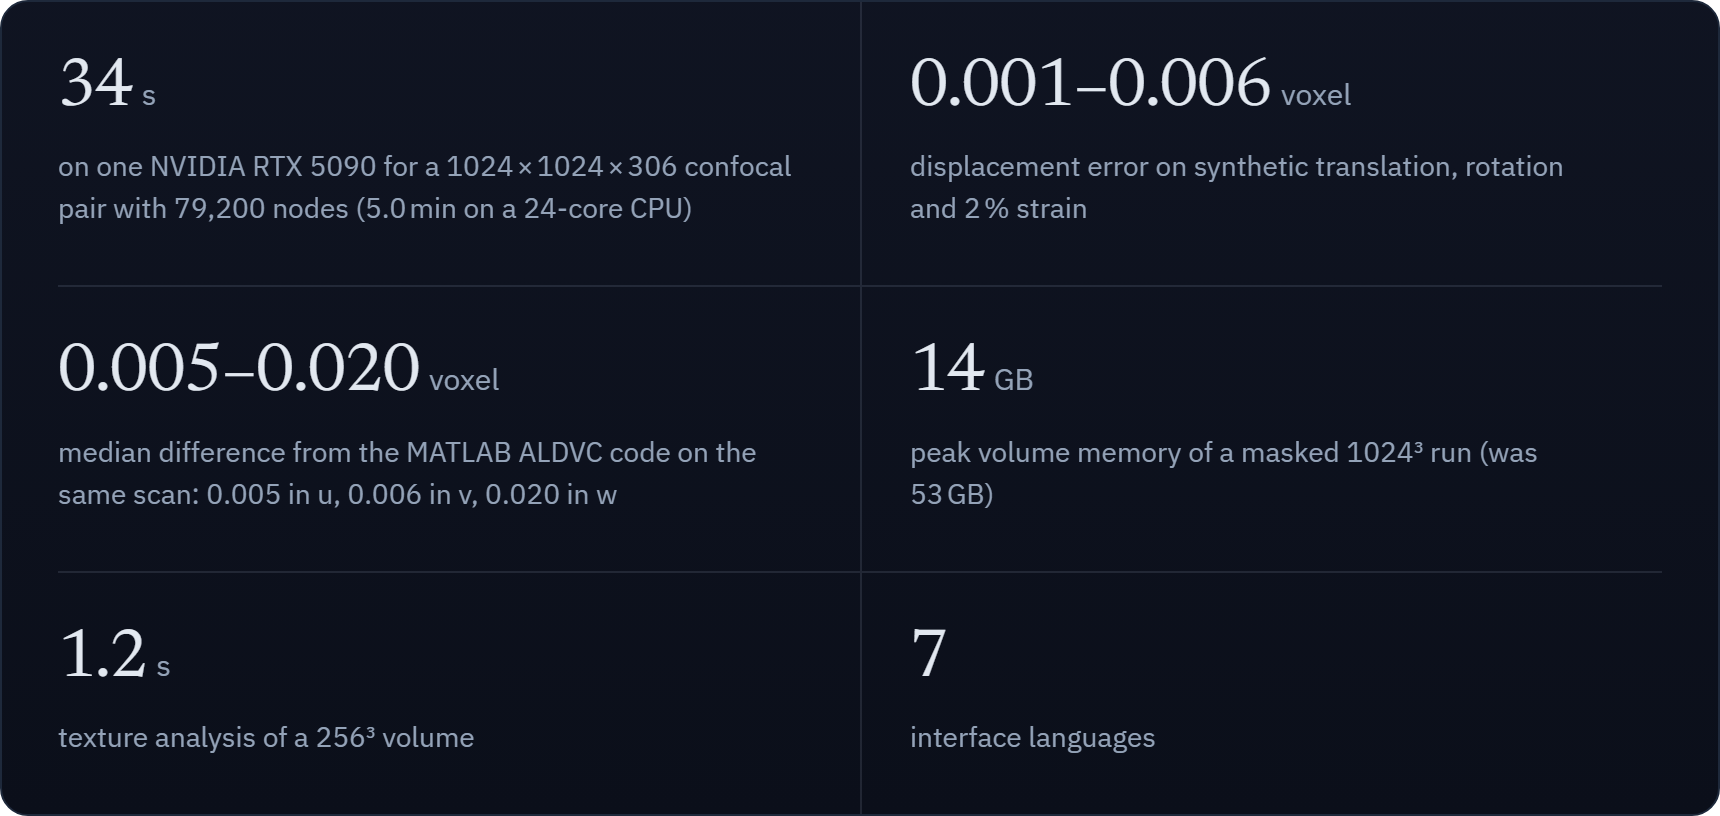
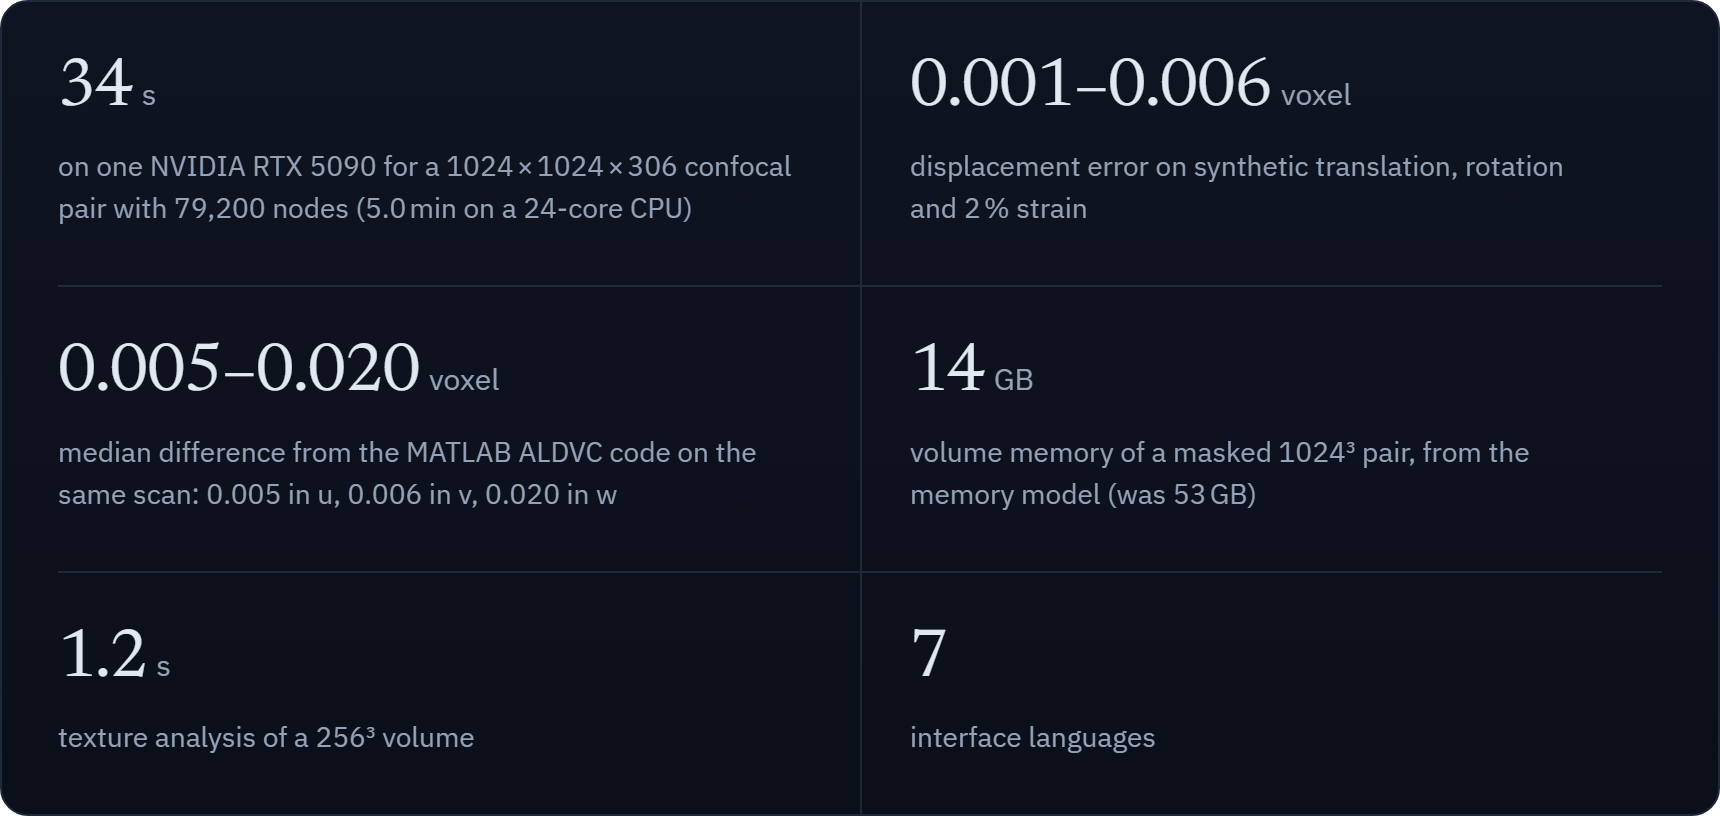
docs: current screenshots, and two claims made exact
- Website screenshots of the current results column, re-captured with
  scripts/make_site_screens.py, which can now also capture the main
  window before the run (app-setup) with the panels' rectangles.
- README and website: the 14 GB for a masked 1024^3 pair is the memory
  model's figure, not a measured peak; the synthetic 5 degree rotation
  row no longer says "up to 8 voxels of motion" (the evaluated nodes
  move up to 4.8 voxels).
- README: the portable bundle is CPU-only; GPU acceleration comes with
  the pip install.

Changed region(s): [[0.5238, 0.5208, 0.8936, 0.6434]]

diff --git a/site/index.html b/site/index.html
@@ -46,7 +46,7 @@
     "codeRepository": "https://github.com/zachtong/pyALDVC",
     "programmingLanguage": "Python",
     "license": "https://opensource.org/licenses/BSD-3-Clause",
-    "version": "1.0.0",
+    "version": "1.0.1",
     "identifier": "https://doi.org/10.5281/zenodo.22883767",
     "author": [
       {"@type": "Person", "name": "Zixiang Tong"},
@@ -108,7 +108,7 @@
         <code id="install-line">pip install al-dvc</code>
         <button class="copy-btn" type="button" data-copy-target="#install-line">Copy</button>
       </div>
-      <p class="fine-print"><span class="fp"><span>Version 1.0.0</span> <span>BSD 3-Clause</span> <span>tested on Python 3.10–3.12</span> <span>portable Windows bundle</span></span></p>
+      <p class="fine-print"><span class="fp"><span>Version 1.0.1</span> <span>BSD 3-Clause</span> <span>tested on Python 3.10–3.12</span> <span>portable Windows bundle</span></span></p>
     </div>
 
     <figure class="hero-media">
@@ -151,7 +151,7 @@
       </div>
       <div class="stat">
         <dt class="stat-value">14<span class="unit">GB</span></dt>
-        <dd>peak volume memory of a masked 1024³ run (was 53&#8239;GB)</dd>
+        <dd>volume memory of a masked 1024³ pair, from the memory model (was 53&#8239;GB)</dd>
       </div>
       <div class="stat">
         <dt class="stat-value">1.2<span class="unit">s</span></dt>
@@ -387,7 +387,7 @@
       </li>
       <li>
         <h3>Large volumes</h3>
-        <p>Local steps over sub-boxes, streamed frames and gradients computed on the fly let a masked 1024³ run peak at 14&#8239;GB of volume memory.</p>
+        <p>Streamed frames, gradients computed on the fly and local steps over sub-boxes keep the volume memory of a masked 1024³ pair at about 14&#8239;GB (memory model).</p>
       </li>
       <li>
         <h3>Texture analysis</h3>
@@ -845,8 +845,8 @@
           </div>
         </div>
         <div class="bars">
-          <p class="bars-k">Peak volume memory, masked 1024³ run</p>
-          <p class="bars-sub">local steps over sub-boxes, gradients on the fly</p>
+          <p class="bars-k">Volume memory, masked 1024³ pair</p>
+          <p class="bars-sub">memory model; gradients computed on the fly</p>
           <div class="bar" style="--w: 26.4%">
             <div class="bar-row"><span class="bar-name">Now</span><span class="bar-val">14&#8239;GB</span></div>
             <div class="bar-track"><div class="bar-fill"></div></div>

diff --git a/scripts/make_site_screens.py b/scripts/make_site_screens.py
@@ -10,6 +10,9 @@ region of interest with the Rectangle tool, runs the analysis from the Run butto
     app-strain.jpg      post-processing window, Strain tab, after computing the strain
     app-statistics.jpg  post-processing window, Statistics tab: two drawn regions, the Regions page
     app-texture.jpg     texture analysis window on the reference volume (RVE sweep, autocorrelation)
+    app-setup.jpg       main window before the run: region of interest and node-grid preview on the slices;
+                        written to --raw (not to the site) with app-setup.json, the panels' rectangles in
+                        device pixels of the capture, for annotated figures
 
 The website's captures use the hydrogel indentation pair of the DVC Challenge 2.0 dataset (confocal,
 1024 x 1024 x 306 voxels). The region of interest stops at z = 215: above it, next to the contact
@@ -49,7 +52,7 @@ MAIN_SIZE = (2120, 1325)  # logical px (16:10): the Slices tab's control row nee
 POST_SIZE = (1680, 1050)  # the post-processing and texture windows
 LEFT_EXTRA = 50  # px beyond the left column's minimum: room for the longest combo text (tracking mode)
 RIGHT_WIDTH = 360  # px of the right column (run, results, console)
-SHOTS = ("slices", "3d", "strain", "statistics", "texture")
+SHOTS = ("setup", "slices", "3d", "strain", "statistics", "texture")
 # the 3-D view: the deformed lattice, opaque (a translucent lattice blends the colours of its inside into its
 # faces), with arrows every third node
 VIEW3D = {
@@ -379,6 +382,55 @@ def dimple(res) -> tuple[float, float, int]:
 
 
 # --------------------------------------------------------------------------- scenes
+SETUP_PANELS = {  # attribute paths on the main window whose rectangles app-setup.json records
+    "volumes": "volume_panel",
+    "parameters": "param_panel",
+    "left_column": "_left_column",
+    "viewer": "center_tabs",
+    "right_column": "_right_column",
+    "run": "run_panel",
+    "results": "results_panel",
+    "console": "console",
+    "roi_tools": "viewer.mask_tools",
+    "grid_toggle": "viewer.show_mesh",
+    "post_processing": "results_panel._analysis_group",
+}
+
+
+def panel_rects(window, scale: float) -> dict:
+    """Rectangles [x, y, w, h] of SETUP_PANELS in device pixels of a grab of ``window``."""
+    from PySide6.QtCore import QPoint
+
+    rects = {}
+    for name, path in SETUP_PANELS.items():
+        widget = window
+        for attr in path.split("."):
+            widget = getattr(widget, attr, None)
+            if widget is None:
+                break
+        if widget is None or not widget.isVisible():
+            continue
+        top_left = widget.mapTo(window, QPoint(0, 0))
+        rects[name] = [round(v * scale) for v in (top_left.x(), top_left.y(), widget.width(), widget.height())]
+    return rects
+
+
+def shot_setup(window, shoot, scale: float) -> None:
+    """Before the run: the reference volume on the Slices tab, the region of interest and the node grid the
+    parameters would place (the preview), as a user sees them just before pressing Run."""
+    window.viewer.show_mesh.setChecked(True)
+    window.param_panel.sections["units"].set_expanded(False)  # voxel units: nothing to read there
+    window.center_tabs.setCurrentIndex(0)
+    arrange(window)
+    work_around_layout_bugs(window)
+    tidy_console(window)
+    path = shoot(window, "app-setup" + shoot.suffix)
+    rects = panel_rects(window, scale)
+    target = path.with_suffix(".json")
+    target.write_text(json.dumps({"scale": scale, "panels": rects}, indent=1), encoding="utf-8")
+    print(f"  {target.name}: {len(rects)} panel rectangles")
+
+
 def arrange(window) -> None:
     """Column widths: the left one a little wider than its minimum (the longest combo text fits), the right one
     fixed, the view in the middle takes the rest (the splitter keeps the view at its own minimum)."""
@@ -597,6 +649,11 @@ def main(argv=None) -> int:
     draw_roi(window, ref.shape, args.margin, depth)
     set_parameters(window, args)
 
+    shoot = Shooter(out, args.width, args.max_kb, raw, args.suffix)
+    if "setup" in wanted:  # before any result exists; a figure source, so it goes to --raw, not the site
+        folder = raw if raw is not None else out
+        shot_setup(window, Shooter(folder, args.width, args.max_kb, raw, args.suffix), args.scale)
+
     cache = Path(args.result) if args.result else None
     if cache is not None and cache.is_file():
         with cache.open("rb") as fh:
@@ -619,7 +676,6 @@ def main(argv=None) -> int:
     print(f"indentation centre x {x:.0f}, y {y:.0f}; slices at z {z}")
     clim = (float(np.floor(info["w_p0.5"])), float(np.ceil(max(info["w_p99.5"], 0.5))))
 
-    shoot = Shooter(out, args.width, args.max_kb, raw, args.suffix)
     if "slices" in wanted:
         shot_slices(window, (x, y, z), clim, shoot)
     if "3d" in wanted:

diff --git a/README.md b/README.md
@@ -42,7 +42,7 @@
 </p>
 
 <p align="center">
-  <a href="https://zachtong.github.io/pyALDVC/#accuracy"><img src="https://raw.githubusercontent.com/zachtong/pyALDVC/main/assets/readme/stats.png" alt="Key numbers: 34 s on one NVIDIA RTX 5090 for a 1024 × 1024 × 306 confocal pair with 79,200 nodes (5.0 min on a 24-core CPU); 0.001 to 0.006 voxel displacement error on synthetic translation, rotation and 2 % strain; 0.005 to 0.020 voxel median difference from the MATLAB ALDVC code on the same scan; 14 GB peak volume memory of a masked 1024³ run (was 53 GB); texture analysis of a 256³ volume in 1.2 s; 7 interface languages" width="800"></a>
+  <a href="https://zachtong.github.io/pyALDVC/#accuracy"><img src="https://raw.githubusercontent.com/zachtong/pyALDVC/main/assets/readme/stats.png" alt="Key numbers: 34 s on one NVIDIA RTX 5090 for a 1024 × 1024 × 306 confocal pair with 79,200 nodes (5.0 min on a 24-core CPU); 0.001 to 0.006 voxel displacement error on synthetic translation, rotation and 2 % strain; 0.005 to 0.020 voxel median difference from the MATLAB ALDVC code on the same scan; about 14 GB of volume memory for a masked 1024³ pair, from the memory model (was 53 GB); texture analysis of a 256³ volume in 1.2 s; 7 interface languages" width="800"></a>
 </p>
 
 **pyALDVC** measures full-field displacement and strain inside a material from a sequence of 3-D scans. It is the
@@ -96,7 +96,7 @@ Foam data courtesy of NIST (Landauer et al., *Sci. Data* 10, 356, 2023).</sub>
   </tr>
   <tr>
     <td valign="top"><b>NVIDIA GPU</b><br><code>pip install "al-dvc[gpu]"</code> runs the local solvers as CUDA kernels, typically within 10<sup>−5</sup> voxel of the CPU.</td>
-    <td valign="top"><b>Large volumes</b><br>Sub-box local steps, streamed frames and on-the-fly gradients: a masked 1024³ run peaks at 14&nbsp;GB.</td>
+    <td valign="top"><b>Large volumes</b><br>Streamed frames, on-the-fly gradients and sub-box local steps: a masked 1024³ pair needs about 14&nbsp;GB (memory model).</td>
   </tr>
   <tr>
     <td valign="top"><b>Texture analysis</b><br>Measures the correlation length of your scan and suggests the subset size and step.</td>
@@ -144,12 +144,12 @@ rotation reads as false strain. A closed-form rigid fit removes it and reveals t
 | Test | Result |
 |---|---|
 | Synthetic rigid translation or 2 % strain | 0.003–0.006 voxel error |
-| Synthetic 5° rotation, up to 8 voxels of motion | 0.001 voxel error |
+| Synthetic 5° rotation about the z axis | 0.001 voxel error |
 | Synthetic translation (12.3, −9.6, 7.4) + 1 % strain | 0.004–0.005 voxel error |
 | Synthetic 2 % strain with noise (SNR 6) | 0.011–0.012 voxel error |
 | Confocal pair, 1024 × 1024 × 306, 79,200 nodes | 34 s on one RTX 5090 (5.0 min on a 24-core CPU) |
 | Same pair, against MATLAB ALDVC (u, v, w) | median difference 0.005 / 0.006 / 0.020 voxel |
-| Masked 1024³ run | 14 GB peak volume memory (was 53 GB) |
+| Masked 1024³ pair | about 14 GB of volume memory, from the memory model (was 53 GB) |
 
 <sub>Synthetic rows: RMS error of each displacement component at the interior nodes, subset 16, step 8 voxels, default
 settings. Confocal rows: subset 32, step 8 voxels, with the settings of the MATLAB example run. Tested on Python 3.10,
@@ -186,8 +186,8 @@ CUDA Toolkit. The last command opens the application, and `al-dvc --self-test` c
 `nibabel`, `pynrrd` and `pydicom` read NIfTI, NRRD and DICOM; `imageio` with `imageio-ffmpeg` records MP4.
 
 **No Python?** Every [release](https://github.com/zachtong/pyALDVC/releases/latest) ships a portable Windows bundle
-(CPU only): unzip it and double-click `pyALDVC.exe`. Then read the
-[user guide](https://github.com/zachtong/pyALDVC/blob/main/docs/user_guide.md).
+(CPU only; for NVIDIA GPU acceleration, install with pip as above): unzip it and double-click `pyALDVC.exe`. Then
+read the [user guide](https://github.com/zachtong/pyALDVC/blob/main/docs/user_guide.md).
 
 ## Citation
 
